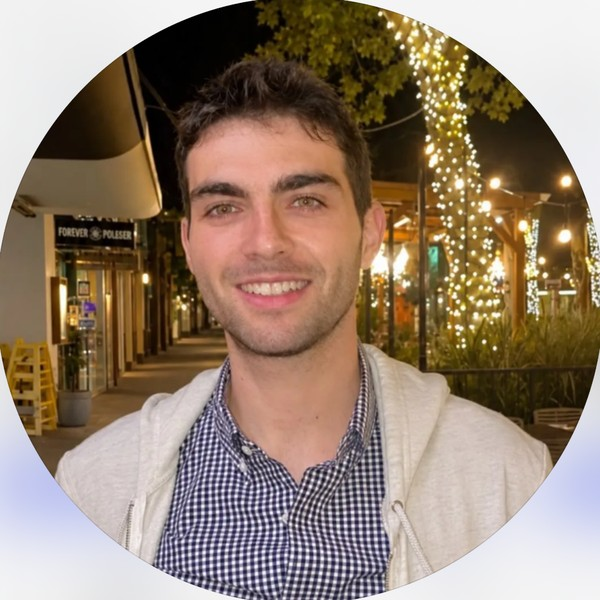
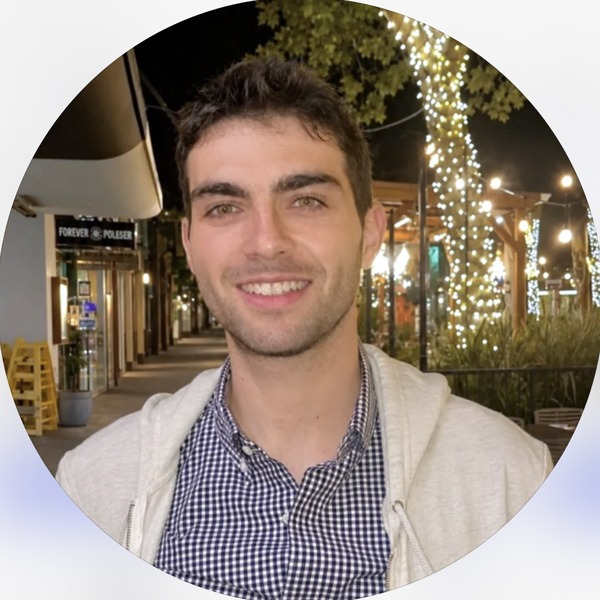
Swap in the brighter headshot; drop the brightness filter
Claude-Session: https://claude.ai/code/session_011dJNaTKHXbVpMdEHN5mwW5

diff --git a/index.html b/index.html
@@ -82,7 +82,7 @@ h2{font-weight:700;font-size:23px;line-height:1.2;margin:0 0 14px}
 .edu li{margin:0 0 8px}
 .edu .v{display:block;padding-left:26px;color:var(--sub);font-size:16.5px}
 .about{display:flow-root}
-.photo{width:170px;height:170px;border-radius:50%;object-fit:cover;float:right;shape-outside:circle(50%);shape-margin:14px;margin:6px 0 10px 26px;filter:brightness(1.18);border:0;background:none;display:block}
+.photo{width:170px;height:170px;border-radius:50%;object-fit:cover;float:right;shape-outside:circle(50%);shape-margin:14px;margin:6px 0 10px 26px;border:0;background:none;display:block}
 
 @media print{.photo{display:none}}
 footer{max-width:760px;margin:0 auto;padding:0 16px 56px;font-size:15px;color:var(--sub)}
@@ -123,7 +123,7 @@ footer .in{border-top:1px solid var(--rule);padding-top:18px}
   <h2>About</h2>
   <div class="about">
     <div>
-      <img class="photo" src="headshot.jpg" alt="Harrison C. Margolin" width="170" height="170">
+      <img class="photo" src="headshot.jpg?v=2" alt="Harrison C. Margolin" width="170" height="170">
       <p>I study how AI agents behave under economic pressure, and what that means for markets and for governance.</p>
       <p>I work on model evaluations at SpaceXAI. I write evaluation items and grading rubrics for Grok, and review other graders’ scoring. My latest paper, <a href="https://harrisonm23-byte.github.io/push-down-the-mountain/"><i>A Push Down the Mountain</i></a>, tests whether framed messages push a long-horizon trading agent toward collusion, and whether steering its internal state changes that.</p>
       <p class="interests">Research interests: <b>agent safety evaluations</b>, <b>interpretability and steering</b>, <b>the macroeconomics of AI</b> and <b>technical AI governance</b>.</p>
